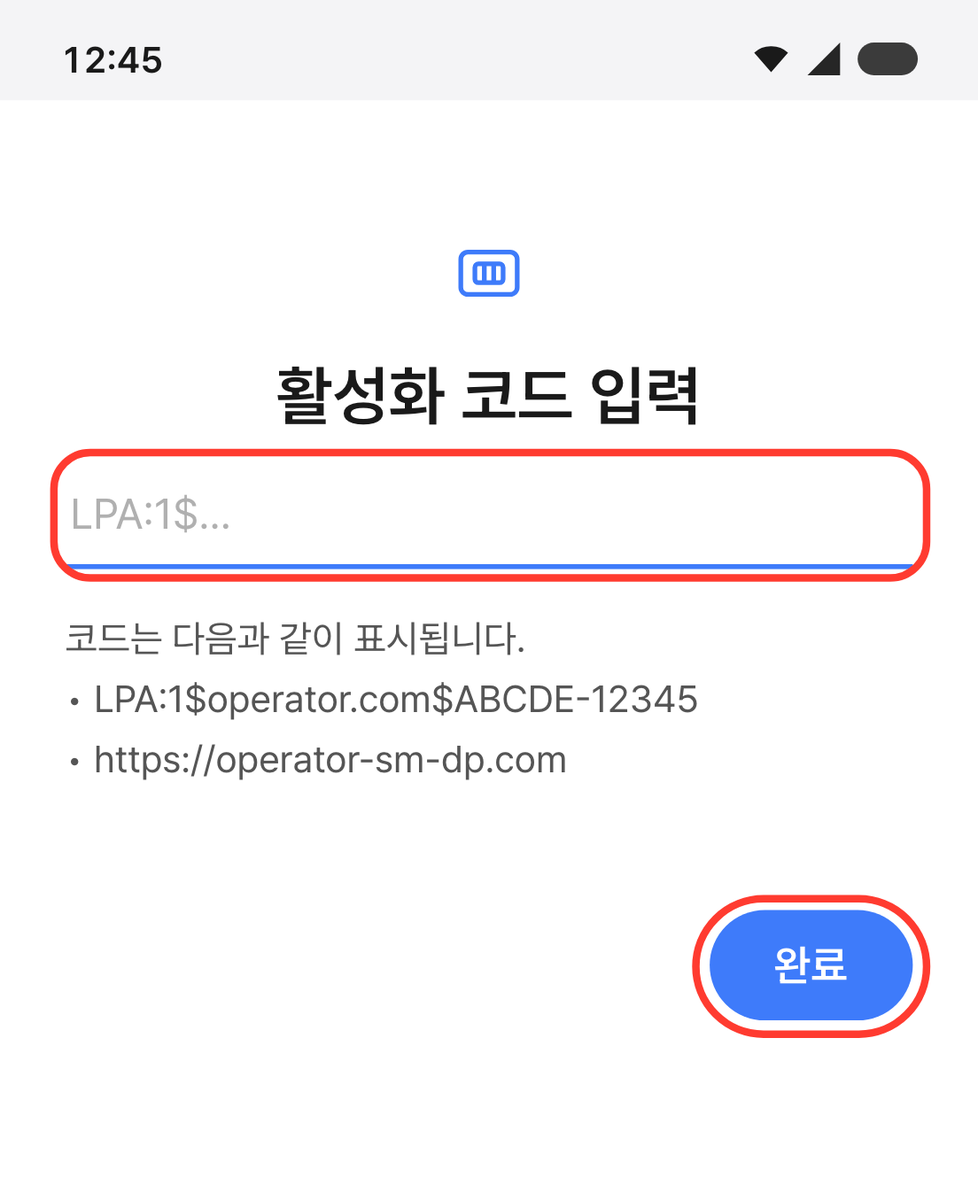
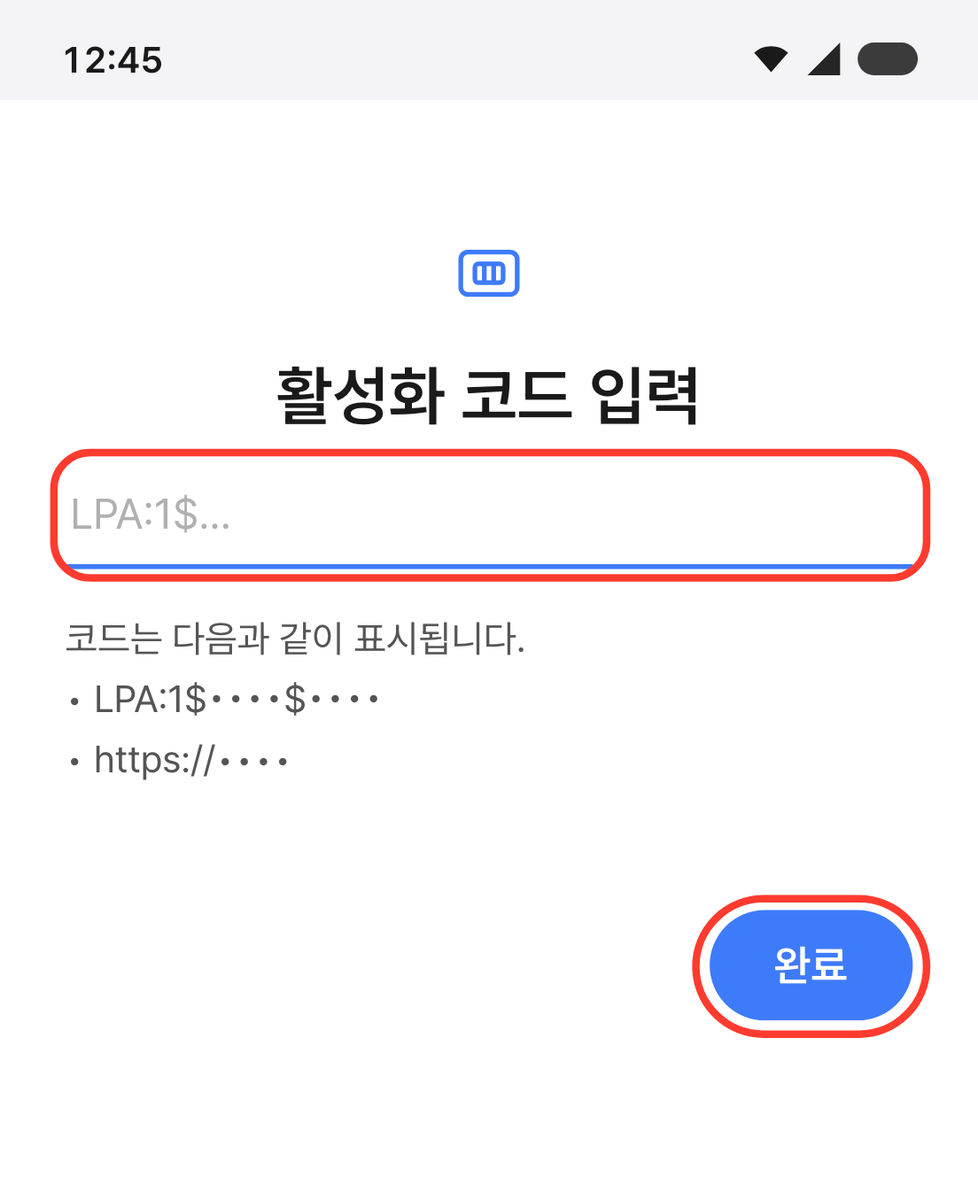
fix(client): 설치 가이드 강조 안내 «설명이 가리키는 곳»(QA ⑥ R5 major — «누를 곳» 이 «꺼 두세요» 스위치 강조와 충돌) · 안드로이드 지원 기기 문장을 지원 기기 페이지와 맞춤(⑦ major) · minor
- D-10: 머리 한 줄 «화면의 빨간 테두리는 설명이 가리키는 곳이에요. 켜고 끄는 건 설명을 따라 주세요.» — «누를 곳» 은
  셀룰러 데이터 전환 허용 · 데이터 전환 · SIM 1 단계(꺼 두기 · 그대로 두기)의 강조와 반대로 읽혀 로밍 요금 위험. 강조 값은 2609 그대로.
- D-4: 안드로이드 «지원 기기» = «국내판 갤럭시는 S23 · Z 플립4 · Z 폴드4 이후 모델과 일부 A 시리즈가 …» (/supported-devices 와 대조 테스트) ·
  B-1 보조 문장 «eSIM이».
- 화면: 흐름 칸 «·» 는 앞 토막 끝에(줄 첫머리 «· 5분» 0) · 보조 글 · 캡션 줄간격 1.6(상태 캡션 · 문의 이름 · 카드 설명) ·
  허브 카드 이름 15px · 허브 · 발급 화면 카드 설명 어절 줄바꿈(«코/드 입력» 0).
- PNG: 구운 기록 지문에 생성기(render.mjs · lock.mjs) · 구운 Chromium 판 · 굽는 순간 CDP 로 글꼴 검사(Pretendard 밖이면 실패 —
  복사본에 이모지 넣어 실패 확인) · ui.css 의 system-ui 대체 제거 · aos-code-input 예시 주소를 가린 값으로(38장 중 이 1장만 바이트 변경).
- 테스트: 웹 화면 템플릿 글자 ↔ 발급 화면 · 이미지 템플릿 주소 조각 0 · 발급 화면 카드 설명 스타일 · scroll-padding 착지 ·
  OS 페이지 설명 글자 고정 · 골든 갱신. client 1446 통과 · typecheck 기준선 4 그대로 · lint 오류 0.

Changed region(s): [[0.2156, 0.5612, 0.7083, 0.6548]]

diff --git a/apps/client/app/components/guide/__golden__/article.android.html b/apps/client/app/components/guide/__golden__/article.android.html
@@ -7,12 +7,12 @@
     </p>
     <nav class="g-os" aria-label="기기 종류"><a class="g-os__tab" href="/guide/ios">아이폰</a><a class="g-os__tab g-os__tab--on" aria-current="page" href="/guide/android">안드로이드</a></nav>
     <ol class="g-flow g-hero__flow">
-      <li class="g-flow__item"><span class="g-flow__step">STEP 1</span><span class="g-flow__title">집에서 설치</span><span class="g-flow__meta">출국 전 <span class="g-flow__nw">· 5분</span></span></li>
-      <li class="g-flow__item"><span class="g-flow__step">STEP 2</span><span class="g-flow__title">회선 설정</span><span class="g-flow__meta">설치 직후 <span class="g-flow__nw">· 1분</span></span></li>
-      <li class="g-flow__item"><span class="g-flow__step">STEP 3</span><span class="g-flow__title">현지에서 켜기</span><span class="g-flow__meta">도착 후 <span class="g-flow__nw">· 1분</span></span></li>
+      <li class="g-flow__item"><span class="g-flow__step">STEP 1</span><span class="g-flow__title">집에서 설치</span><!-- «·» 는 앞 토막 끝에 붙인다(줄이 갈려도 «· 5분» 이 줄 첫머리에 오지 않게) · 사이 공백은 글자로(템플릿 공백 압축이 지운다) --><span class="g-flow__meta"><span class="g-flow__nw">출국 전 ·</span> <span class="g-flow__nw">5분</span></span></li>
+      <li class="g-flow__item"><span class="g-flow__step">STEP 2</span><span class="g-flow__title">회선 설정</span><!-- «·» 는 앞 토막 끝에 붙인다(줄이 갈려도 «· 5분» 이 줄 첫머리에 오지 않게) · 사이 공백은 글자로(템플릿 공백 압축이 지운다) --><span class="g-flow__meta"><span class="g-flow__nw">설치 직후 ·</span> <span class="g-flow__nw">1분</span></span></li>
+      <li class="g-flow__item"><span class="g-flow__step">STEP 3</span><span class="g-flow__title">현지에서 켜기</span><!-- «·» 는 앞 토막 끝에 붙인다(줄이 갈려도 «· 5분» 이 줄 첫머리에 오지 않게) · 사이 공백은 글자로(템플릿 공백 압축이 지운다) --><span class="g-flow__meta"><span class="g-flow__nw">도착 후 ·</span> <span class="g-flow__nw">1분</span></span></li>
     </ol>
     <nav class="g-jump" aria-label="이 페이지 안에서 이동"><a href="#check" class="g-jump__chip">설치 전 확인</a><a href="#step1" class="g-jump__chip">STEP 1 설치</a><a href="#step2" class="g-jump__chip">STEP 2 설정</a><a href="#step3" class="g-jump__chip">STEP 3 현지</a><a href="#help" class="g-jump__chip">문제 해결</a></nav>
-    <p class="g-hero__hint">화면의 빨간 테두리가 누를 곳이에요.</p>
+    <p class="g-hero__hint">화면의 빨간 테두리는 설명이 가리키는 곳이에요. 켜고 끄는 건 설명을 따라 주세요.</p>
   </header><!-- 설치 전 확인 -->
   <section id="check" class="g-sec" aria-labelledby="check-title">
     <h2 id="check-title" class="g-sec__title">설치 전에 확인해 주세요</h2>
@@ -33,7 +33,7 @@
       <li class="g-check"><span class="g-check__tile" aria-hidden="true"><svg xmlns="http://www.w3.org/2000/svg" fill="none" viewBox="0 0 24 24" stroke-width="1.5" stroke="currentColor" aria-hidden="true" data-slot="icon" class="g-check__icon"><path stroke-linecap="round" stroke-linejoin="round" d="M10.5 1.5H8.25A2.25 2.25 0 0 0 6 3.75v16.5a2.25 2.25 0 0 0 2.25 2.25h7.5A2.25 2.25 0 0 0 18 20.25V3.75a2.25 2.25 0 0 0-2.25-2.25H13.5m-3 0V3h3V1.5m-3 0h3m-3 18.75h3"></path></svg></span>
         <div>
           <h3 class="g-check__h">지원 기기</h3>
-          <p class="g-check__body">갤럭시는 S23부터 eSIM을 지원해요. 통신사 잠금(컨트리락)도 풀려 있어야 해요.</p>
+          <p class="g-check__body">국내판 갤럭시는 S23 · <span class="g-nw">Z 플립4</span> · <span class="g-nw">Z 폴드4</span> 이후 모델과 일부 <span class="g-nw">A 시리즈</span>가 eSIM을 지원해요. 통신사 잠금(컨트리락)도 풀려 있어야 해요.</p>
         </div>
       </li>
       <li class="g-check"><span class="g-check__tile" aria-hidden="true"><svg xmlns="http://www.w3.org/2000/svg" fill="none" viewBox="0 0 24 24" stroke-width="1.5" stroke="currentColor" aria-hidden="true" data-slot="icon" class="g-check__icon"><path stroke-linecap="round" stroke-linejoin="round" d="M5.636 5.636a9 9 0 1 0 12.728 0M12 3v9"></path></svg></span>
@@ -100,7 +100,7 @@
       <ol class="g-steps g-method__steps" role="list">
         <li class="g-step">
           <div class="g-step__text"><span class="g-step__num">1<span class="g-step__sr">번.</span></span>
-            <p class="g-step__p">발급 화면에서 <span class="g-nw"><span class="g-ui">QR 코드 다운로드</span>를</span> 눌러 갤러리에 저장해요.<span class="g-step__sub">저장이 안 되면 화면을 캡처해도 돼요. 한 주문에 eSIM 이 여러 개면 버튼 이름이 ‘QR 다운로드’예요.</span></p>
+            <p class="g-step__p">발급 화면에서 <span class="g-nw"><span class="g-ui">QR 코드 다운로드</span>를</span> 눌러 갤러리에 저장해요.<span class="g-step__sub">저장이 안 되면 화면을 캡처해도 돼요. 한 주문에 eSIM이 여러 개면 버튼 이름이 ‘QR 다운로드’예요.</span></p>
           </div>
           <figure class="g-shot"><img class="g-shot__img" src="/guide-screens/web-qr-aos-download.v1.png" alt="발급 완료 화면 — QR 코드 다운로드 버튼 표시" width="368" height="449" loading="lazy" decoding="async"></figure>
         </li>

diff --git a/apps/client/app/content/guide/guide.test.ts b/apps/client/app/content/guide/guide.test.ts
@@ -208,6 +208,22 @@ describe.each(Object.entries(GUIDES))('%s 가이드 콘텐츠', (os, g) => {
     )
   })
 
+  it('안드로이드 «지원 기기» 문장 = 사이트 지원 기기 페이지(국내판 첫 지원 S23 · Z 플립4 · Z 폴드4 — D-4 · QA ⑦)', () => {
+    const card = ANDROID_GUIDE.checks.items.find((c) => c.title === '지원 기기')
+    expect(guidePlainText(card!.body)).toBe(
+      '국내판 갤럭시는 S23 · Z 플립4 · Z 폴드4 이후 모델과 일부 A 시리즈가 eSIM을 지원해요. 통신사 잠금(컨트리락)도 풀려 있어야 해요.',
+    )
+    // 지원 기기 페이지가 바뀌면(첫 지원 모델 · 비지원 목록) 이 문장도 같이 본다
+    const dev = read('app/components/devices/SupportedDevicesContent.vue')
+    expect(dev).toContain("'S23 · S24 · S25 · S26 전 모델'")
+    expect(dev).toContain("'Z 플립 4 · 5 · 6 · 7 · 8'")
+    expect(dev).toContain("'Z 폴드 4 · 5 · 6 · 7 · 8 · 8 울트라'")
+    expect(dev).toMatch(/'A35 · A36'/)
+    expect(dev).toContain(
+      'S22 · S21 · S20 시리즈, Note 20, Z 플립3 이전, Z 폴드3 이전 모델은 eSIM 하드웨어가 없어요.',
+    )
+  })
+
   it('제품명 표기 «아이폰»(client-shell D-52) — 본문에 «iPhone» 0', () => {
     const all = strings(g).map(guidePlainText).join('\n')
     expect(all).not.toContain('iPhone')
@@ -294,6 +310,35 @@ describe('화면 창 매니페스트 ↔ PNG (spec F-3 · DoD 2)', () => {
     }
   })
 
+  it('구운 기록에 구운 브라우저 판이 있다(다른 판으로 다시 구우면 바이트가 바뀐다 — 대조 근거)', () => {
+    expect((lockJson as { browser?: string }).browser).toMatch(/^chromium \d+\./)
+  })
+
+  it('웹 화면 PNG 글자 = 지금 발급 화면 글자(발급 화면을 고치면 템플릿도 고쳐 다시 굽는다 — 앱 CLAUDE.md)', () => {
+    const view = read('app/pages/view/[orderId].vue')
+    const screens = read('scripts/guide-screens/screens.js')
+    for (const t of [
+      '아이폰 수동 설치',
+      '안드로이드 수동 설치',
+      'LPA 전체',
+      'SM-DP+ 주소',
+      '활성화 코드',
+      'QR 코드 다운로드',
+      '발급 완료',
+      '다운로드가 안 되면 스크린샷으로 저장해 주세요.',
+    ]) {
+      expect(view, `발급 화면 «${t}»`).toContain(t)
+      expect(screens, `웹 화면 템플릿 «${t}»`).toContain(t)
+    }
+  })
+
+  it('이미지 템플릿 안 주소 조각 0 — LPA · SM-DP+ 값은 가린 글자(••••)만 · URL 은 가린 예시 하나(불변식 · D-4)', () => {
+    const screens = read('scripts/guide-screens/screens.js')
+    expect(screens).not.toMatch(/LPA:1\$[^$•…\s]*[A-Za-z0-9-]\.[A-Za-z]{2,}/)
+    expect(screens.match(/https?:\/\/[^\s"'<`]*/g) ?? []).toEqual(['https://••••'])
+    expect(screens).not.toMatch(/operator|sm-dp\.|smdp\./i)
+  })
+
   it('src 는 /guide-screens/<키>.<버전>.png (CloudFront 캐시 무효화가 필요 없게 버전 접미 — Proposal K4)', () => {
     expect(figureSrc('ios-done')).toBe(`/guide-screens/ios-done.${FIGURE_VERSION}.png`)
   })
@@ -325,6 +370,23 @@ describe('사이트 연결 (spec F-6 · F-7 · F-8)', () => {
       )
     }
     expect(view).not.toMatch(/Universal Link 자동 설치|Galaxy · Pixel · QR 등록/)
+  })
+
+  it('발급 화면 카드 설명 — 명암비 4.5:1(#737373) · 13px · 어절 줄바꿈 · 줄간격 1.6(spec ⑤ · QA ⑦)', () => {
+    const css = read('app/pages/view/[orderId].vue').split('<style scoped>')[1] ?? ''
+    const rule = css.match(/\.view-page__guides :deep\(\.n-link-card__sub\) \{([^}]*)\}/)?.[1] ?? ''
+    expect(rule).toMatch(/color: var\(--n-color-neutral-500, #737373\);/)
+    expect(rule).toMatch(/font-size: 13px;/)
+    expect(rule).toMatch(/line-height: 1\.6;/)
+    expect(rule).toMatch(/word-break: keep-all;/)
+  })
+
+  it('바로가기 착지 — 기본 레이아웃이 헤더 높이만큼 scroll-padding-top 을 준다(앵커 머리가 헤더에 가리지 않게 · E2E-4)', () => {
+    const layout = read('app/layouts/default.vue')
+    expect(layout).toContain("useHead({ htmlAttrs: { class: 'has-shell-chrome' } })")
+    expect(layout).toMatch(
+      /html\.has-shell-chrome \{[^}]*scroll-padding-top: calc\(var\(--shell-header-height, 56px\) \+ 8px\);/,
+    )
   })
 
   it('가이드 화면 글자 크기 하한 — 모든 글 13px 이상 · 본문 칸 15px 이상(spec ⑤ — 장식 로고 글자 제외)', () => {

diff --git a/apps/client/app/components/guide/__golden__/hub.html b/apps/client/app/components/guide/__golden__/hub.html
@@ -4,9 +4,9 @@
   <div class="guide-page__cards"><a class="n-link-card" href="/guide/ios"><span class="n-link-card__icon"><img src="/icons/apple.svg" alt="" width="20" height="20"></span><span class="n-link-card__text"><span class="n-link-card__label">아이폰 설치 가이드</span><span class="n-link-card__sub">QR 스캔 · QR 길게 누르기 · 코드 입력</span></span><span class="n-link-card__chev" aria-hidden="true"><svg width="18" height="18" viewBox="0 0 24 24" fill="none" stroke="currentColor" stroke-width="2.4" stroke-linecap="round" stroke-linejoin="round"><path d="M9 18l6-6-6-6"></path></svg></span></a><a class="n-link-card" href="/guide/android"><span class="n-link-card__icon"><img src="/icons/android.svg" alt="" width="20" height="20"></span><span class="n-link-card__text"><span class="n-link-card__label">안드로이드 설치 가이드</span><span class="n-link-card__sub">갤럭시 기준 · QR 스캔 · QR 이미지 · 코드 입력</span></span><span class="n-link-card__chev" aria-hidden="true"><svg width="18" height="18" viewBox="0 0 24 24" fill="none" stroke="currentColor" stroke-width="2.4" stroke-linecap="round" stroke-linejoin="round"><path d="M9 18l6-6-6-6"></path></svg></span></a></div>
   <h2 class="guide-page__h2">이렇게 진행돼요</h2>
   <ol class="g-flow">
-    <li class="g-flow__item"><span class="g-flow__step">STEP 1</span><span class="g-flow__title">집에서 설치</span><span class="g-flow__meta">출국 전 <span class="g-flow__nw">· 5분</span></span></li>
-    <li class="g-flow__item"><span class="g-flow__step">STEP 2</span><span class="g-flow__title">회선 설정</span><span class="g-flow__meta">설치 직후 <span class="g-flow__nw">· 1분</span></span></li>
-    <li class="g-flow__item"><span class="g-flow__step">STEP 3</span><span class="g-flow__title">현지에서 켜기</span><span class="g-flow__meta">도착 후 <span class="g-flow__nw">· 1분</span></span></li>
+    <li class="g-flow__item"><span class="g-flow__step">STEP 1</span><span class="g-flow__title">집에서 설치</span><!-- «·» 는 앞 토막 끝에 붙인다(줄이 갈려도 «· 5분» 이 줄 첫머리에 오지 않게) · 사이 공백은 글자로(템플릿 공백 압축이 지운다) --><span class="g-flow__meta"><span class="g-flow__nw">출국 전 ·</span> <span class="g-flow__nw">5분</span></span></li>
+    <li class="g-flow__item"><span class="g-flow__step">STEP 2</span><span class="g-flow__title">회선 설정</span><!-- «·» 는 앞 토막 끝에 붙인다(줄이 갈려도 «· 5분» 이 줄 첫머리에 오지 않게) · 사이 공백은 글자로(템플릿 공백 압축이 지운다) --><span class="g-flow__meta"><span class="g-flow__nw">설치 직후 ·</span> <span class="g-flow__nw">1분</span></span></li>
+    <li class="g-flow__item"><span class="g-flow__step">STEP 3</span><span class="g-flow__title">현지에서 켜기</span><!-- «·» 는 앞 토막 끝에 붙인다(줄이 갈려도 «· 5분» 이 줄 첫머리에 오지 않게) · 사이 공백은 글자로(템플릿 공백 압축이 지운다) --><span class="g-flow__meta"><span class="g-flow__nw">도착 후 ·</span> <span class="g-flow__nw">1분</span></span></li>
   </ol>
   <p class="guide-page__note">설치만으로는 사용일수가 시작되지 않아요.</p><a class="guide-page__link" href="/supported-devices">지원 기기 확인</a>
   <section class="g-cs" aria-labelledby="guide-cs-title">

diff --git a/apps/client/app/components/guide/__golden__/article.ios.html b/apps/client/app/components/guide/__golden__/article.ios.html
@@ -7,12 +7,12 @@
     </p>
     <nav class="g-os" aria-label="기기 종류"><a class="g-os__tab g-os__tab--on" aria-current="page" href="/guide/ios">아이폰</a><a class="g-os__tab" href="/guide/android">안드로이드</a></nav>
     <ol class="g-flow g-hero__flow">
-      <li class="g-flow__item"><span class="g-flow__step">STEP 1</span><span class="g-flow__title">집에서 설치</span><span class="g-flow__meta">출국 전 <span class="g-flow__nw">· 5분</span></span></li>
-      <li class="g-flow__item"><span class="g-flow__step">STEP 2</span><span class="g-flow__title">회선 설정</span><span class="g-flow__meta">설치 직후 <span class="g-flow__nw">· 1분</span></span></li>
-      <li class="g-flow__item"><span class="g-flow__step">STEP 3</span><span class="g-flow__title">현지에서 켜기</span><span class="g-flow__meta">도착 후 <span class="g-flow__nw">· 1분</span></span></li>
+      <li class="g-flow__item"><span class="g-flow__step">STEP 1</span><span class="g-flow__title">집에서 설치</span><!-- «·» 는 앞 토막 끝에 붙인다(줄이 갈려도 «· 5분» 이 줄 첫머리에 오지 않게) · 사이 공백은 글자로(템플릿 공백 압축이 지운다) --><span class="g-flow__meta"><span class="g-flow__nw">출국 전 ·</span> <span class="g-flow__nw">5분</span></span></li>
+      <li class="g-flow__item"><span class="g-flow__step">STEP 2</span><span class="g-flow__title">회선 설정</span><!-- «·» 는 앞 토막 끝에 붙인다(줄이 갈려도 «· 5분» 이 줄 첫머리에 오지 않게) · 사이 공백은 글자로(템플릿 공백 압축이 지운다) --><span class="g-flow__meta"><span class="g-flow__nw">설치 직후 ·</span> <span class="g-flow__nw">1분</span></span></li>
+      <li class="g-flow__item"><span class="g-flow__step">STEP 3</span><span class="g-flow__title">현지에서 켜기</span><!-- «·» 는 앞 토막 끝에 붙인다(줄이 갈려도 «· 5분» 이 줄 첫머리에 오지 않게) · 사이 공백은 글자로(템플릿 공백 압축이 지운다) --><span class="g-flow__meta"><span class="g-flow__nw">도착 후 ·</span> <span class="g-flow__nw">1분</span></span></li>
     </ol>
     <nav class="g-jump" aria-label="이 페이지 안에서 이동"><a href="#check" class="g-jump__chip">설치 전 확인</a><a href="#step1" class="g-jump__chip">STEP 1 설치</a><a href="#step2" class="g-jump__chip">STEP 2 설정</a><a href="#step3" class="g-jump__chip">STEP 3 현지</a><a href="#help" class="g-jump__chip">문제 해결</a></nav>
-    <p class="g-hero__hint">화면의 빨간 테두리가 누를 곳이에요.</p>
+    <p class="g-hero__hint">화면의 빨간 테두리는 설명이 가리키는 곳이에요. 켜고 끄는 건 설명을 따라 주세요.</p>
   </header><!-- 설치 전 확인 -->
   <section id="check" class="g-sec" aria-labelledby="check-title">
     <h2 id="check-title" class="g-sec__title">설치 전에 확인해 주세요</h2>

diff --git a/apps/client/app/pages/guide/guide-pages.test.ts b/apps/client/app/pages/guide/guide-pages.test.ts
@@ -24,10 +24,17 @@ const PAGES = {
   './android.vue': () => import('./android.vue'),
 } as const
 
+// 페이지 설명은 spec 글자로 고정한다(아이폰 설명을 안드로이드 페이지에 붙여도 통과하지 않게)
+const DESC = {
+  ios: '아이폰 eSIM 설치 가이드 — QR 코드로 집에서 설치하고, 이어서 나오는 화면과 현지에서 여행용 eSIM 을 켜는 법을 화면과 함께 안내해요.',
+  android:
+    '안드로이드(갤럭시) eSIM 설치 가이드 — SIM 관리자에서 QR 코드로 설치하고, 현지에서 모바일 데이터와 데이터 로밍을 켜는 법을 화면과 함께 안내해요.',
+} as const
+
 describe.each([
   ['ios', './ios.vue', '아이폰 eSIM 설치 가이드', 24, '/guide/ios', '아이폰'],
   ['android', './android.vue', '안드로이드 eSIM 설치 가이드', 17, '/guide/android', '안드로이드'],
-] as const)('%s 페이지', (_os, file, h1, shots, path, word) => {
+] as const)('%s 페이지', (os, file, h1, shots, path, word) => {
   it(`제목 «${h1}» · 화면 ${shots}장 · OS 탭 · SEO 제목과 설명(${path})`, async () => {
     const Page = (await PAGES[file]()).default
     const w = mount(Page, { global: { stubs: { NuxtLink } } })
@@ -38,6 +45,6 @@ describe.each([
     const meta = seo.mock.calls[0]![0] as { title: string; description: string }
     expect(meta.title).toBe(h1)
     expect(meta.description).toContain(word)
-    expect(meta.description).toContain('설치 가이드')
+    expect(meta.description).toBe(DESC[os])
   })
 })

diff --git a/apps/client/app/content/guide/android.ts b/apps/client/app/content/guide/android.ts
@@ -27,7 +27,7 @@ export const ANDROID_GUIDE: GuideContent = {
       {
         icon: 'device',
         title: '지원 기기',
-        body: '갤럭시는 S23부터 eSIM을 지원해요. 통신사 잠금(컨트리락)도 풀려 있어야 해요.',
+        body: '국내판 갤럭시는 S23 · ((Z 플립4)) · ((Z 폴드4)) 이후 모델과 일부 ((A 시리즈))가 eSIM을 지원해요. 통신사 잠금(컨트리락)도 풀려 있어야 해요.',
       },
       {
         icon: 'clean',
@@ -66,7 +66,7 @@ export const ANDROID_GUIDE: GuideContent = {
         steps: [
           {
             text: '발급 화면에서 {{QR 코드 다운로드}}를 눌러 갤러리에 저장해요.',
-            sub: '저장이 안 되면 화면을 캡처해도 돼요. 한 주문에 eSIM 이 여러 개면 버튼 이름이 ‘QR 다운로드’예요.',
+            sub: '저장이 안 되면 화면을 캡처해도 돼요. 한 주문에 eSIM이 여러 개면 버튼 이름이 ‘QR 다운로드’예요.',
             figure: 'web-qr-aos-download',
           },
           {

diff --git a/apps/client/app/components/guide/GuideFlow.vue b/apps/client/app/components/guide/GuideFlow.vue
@@ -8,9 +8,10 @@ import { GUIDE_FLOW } from '~/content/guide/common'
     <li v-for="item in GUIDE_FLOW" :key="item.step" class="g-flow__item">
       <span class="g-flow__step">{{ item.step }}</span>
       <span class="g-flow__title">{{ item.title }}</span>
+      <!-- «·» 는 앞 토막 끝에 붙인다(줄이 갈려도 «· 5분» 이 줄 첫머리에 오지 않게) · 사이 공백은 글자로(템플릿 공백 압축이 지운다) -->
       <span class="g-flow__meta"
-        >{{ item.meta.split(' · ')[0] }}
-        <span class="g-flow__nw">· {{ item.meta.split(' · ')[1] }}</span></span
+        ><span class="g-flow__nw">{{ item.meta.split(' · ')[0] }} ·</span>{{ ' '
+        }}<span class="g-flow__nw">{{ item.meta.split(' · ')[1] }}</span></span
       >
     </li>
   </ol>
@@ -57,6 +58,7 @@ import { GUIDE_FLOW } from '~/content/guide/common'
 
 .g-flow__meta {
   font-size: 13px;
+  line-height: 1.6;
   color: var(--n-color-neutral-500, #737373);
 }
 </style>

diff --git a/apps/client/app/components/guide/__golden__/styles.css b/apps/client/app/components/guide/__golden__/styles.css
@@ -417,6 +417,7 @@
 .g-cs__handle {
   font-size: 16px;
   font-weight: 800;
+  line-height: 1.6;
 }
 
 .g-cs__sr {
@@ -486,6 +487,7 @@
 
 .g-flow__meta {
   font-size: 13px;
+  line-height: 1.6;
   color: var(--n-color-neutral-500, #737373);
 }
 
@@ -702,6 +704,7 @@
 .g-status__cap {
   font-size: 15px;
   font-weight: 700;
+  line-height: 1.6;
   color: var(--n-color-neutral-600, #525252);
   text-align: center;
 }
@@ -830,9 +833,16 @@
 }
 
 /* DS 카드 설명(#a3a3a3 · 11px)은 명암비 2.5:1 — 설치 방법 목록이라 읽혀야 한다(4.5:1 이상) */
+/* 카드 이름은 본문 크기(DS 기본 13px 은 설명 글자와 같다) · 설명은 명암비 4.5:1 · 두 줄이면 줄간격 1.6 */
+.guide-page__cards :deep(.n-link-card__label) {
+  font-size: 15px;
+}
+
 .guide-page__cards :deep(.n-link-card__sub) {
   color: var(--n-color-neutral-500, #737373);
   font-size: 13px;
+  line-height: 1.6;
+  word-break: keep-all;
 }
 
 .guide-page__h2 {

diff --git a/apps/client/app/pages/view/[orderId].vue b/apps/client/app/pages/view/[orderId].vue
@@ -524,10 +524,12 @@ definePageMeta({ layout: 'flow', middleware: 'order-flow' })
   gap: 8px;
 }
 
-/* 가이드 카드 설명은 설치 방법 목록 — DS 기본(#a3a3a3)은 명암비 2.5:1 이라 한 단계 진하게(client-guide QA) */
+/* 가이드 카드 설명은 설치 방법 목록 — DS 기본(#a3a3a3)은 명암비 2.5:1 이라 한 단계 진하게 · 어절 줄바꿈(«코/드 입력» 0) · 줄간격 1.6(client-guide QA) */
 .view-page__guides :deep(.n-link-card__sub) {
   color: var(--n-color-neutral-500, #737373);
   font-size: 13px;
+  line-height: 1.6;
+  word-break: keep-all;
 }
 
 .view-page__codes {

diff --git a/apps/client/app/pages/guide/index.vue b/apps/client/app/pages/guide/index.vue
@@ -82,9 +82,16 @@ const OS_ORDER: GuideOs[] = ['ios', 'android']
 }
 
 /* DS 카드 설명(#a3a3a3 · 11px)은 명암비 2.5:1 — 설치 방법 목록이라 읽혀야 한다(4.5:1 이상) */
+/* 카드 이름은 본문 크기(DS 기본 13px 은 설명 글자와 같다) · 설명은 명암비 4.5:1 · 두 줄이면 줄간격 1.6 */
+.guide-page__cards :deep(.n-link-card__label) {
+  font-size: 15px;
+}
+
 .guide-page__cards :deep(.n-link-card__sub) {
   color: var(--n-color-neutral-500, #737373);
   font-size: 13px;
+  line-height: 1.6;
+  word-break: keep-all;
 }
 
 .guide-page__h2 {

diff --git a/apps/client/scripts/guide-screens/screens.js b/apps/client/scripts/guide-screens/screens.js
@@ -359,7 +359,7 @@
       build:
         () => `${aStatus()}<div class="a-flow">${I.aSim}<h3 class="a-flow__t">활성화 코드 입력</h3>
         <div class="a-input" data-k="input">LPA:1$…</div>
-        <div class="a-hint">코드는 다음과 같이 표시됩니다.<br />• LPA:1$operator.com$ABCDE-12345<br />• https://operator-sm-dp.com</div>
+        <div class="a-hint">코드는 다음과 같이 표시됩니다.<br />• LPA:1$••••$••••<br />• https://••••</div>
         <span class="a-pill hl-round" data-k="done">완료</span></div>`,
     },
 
